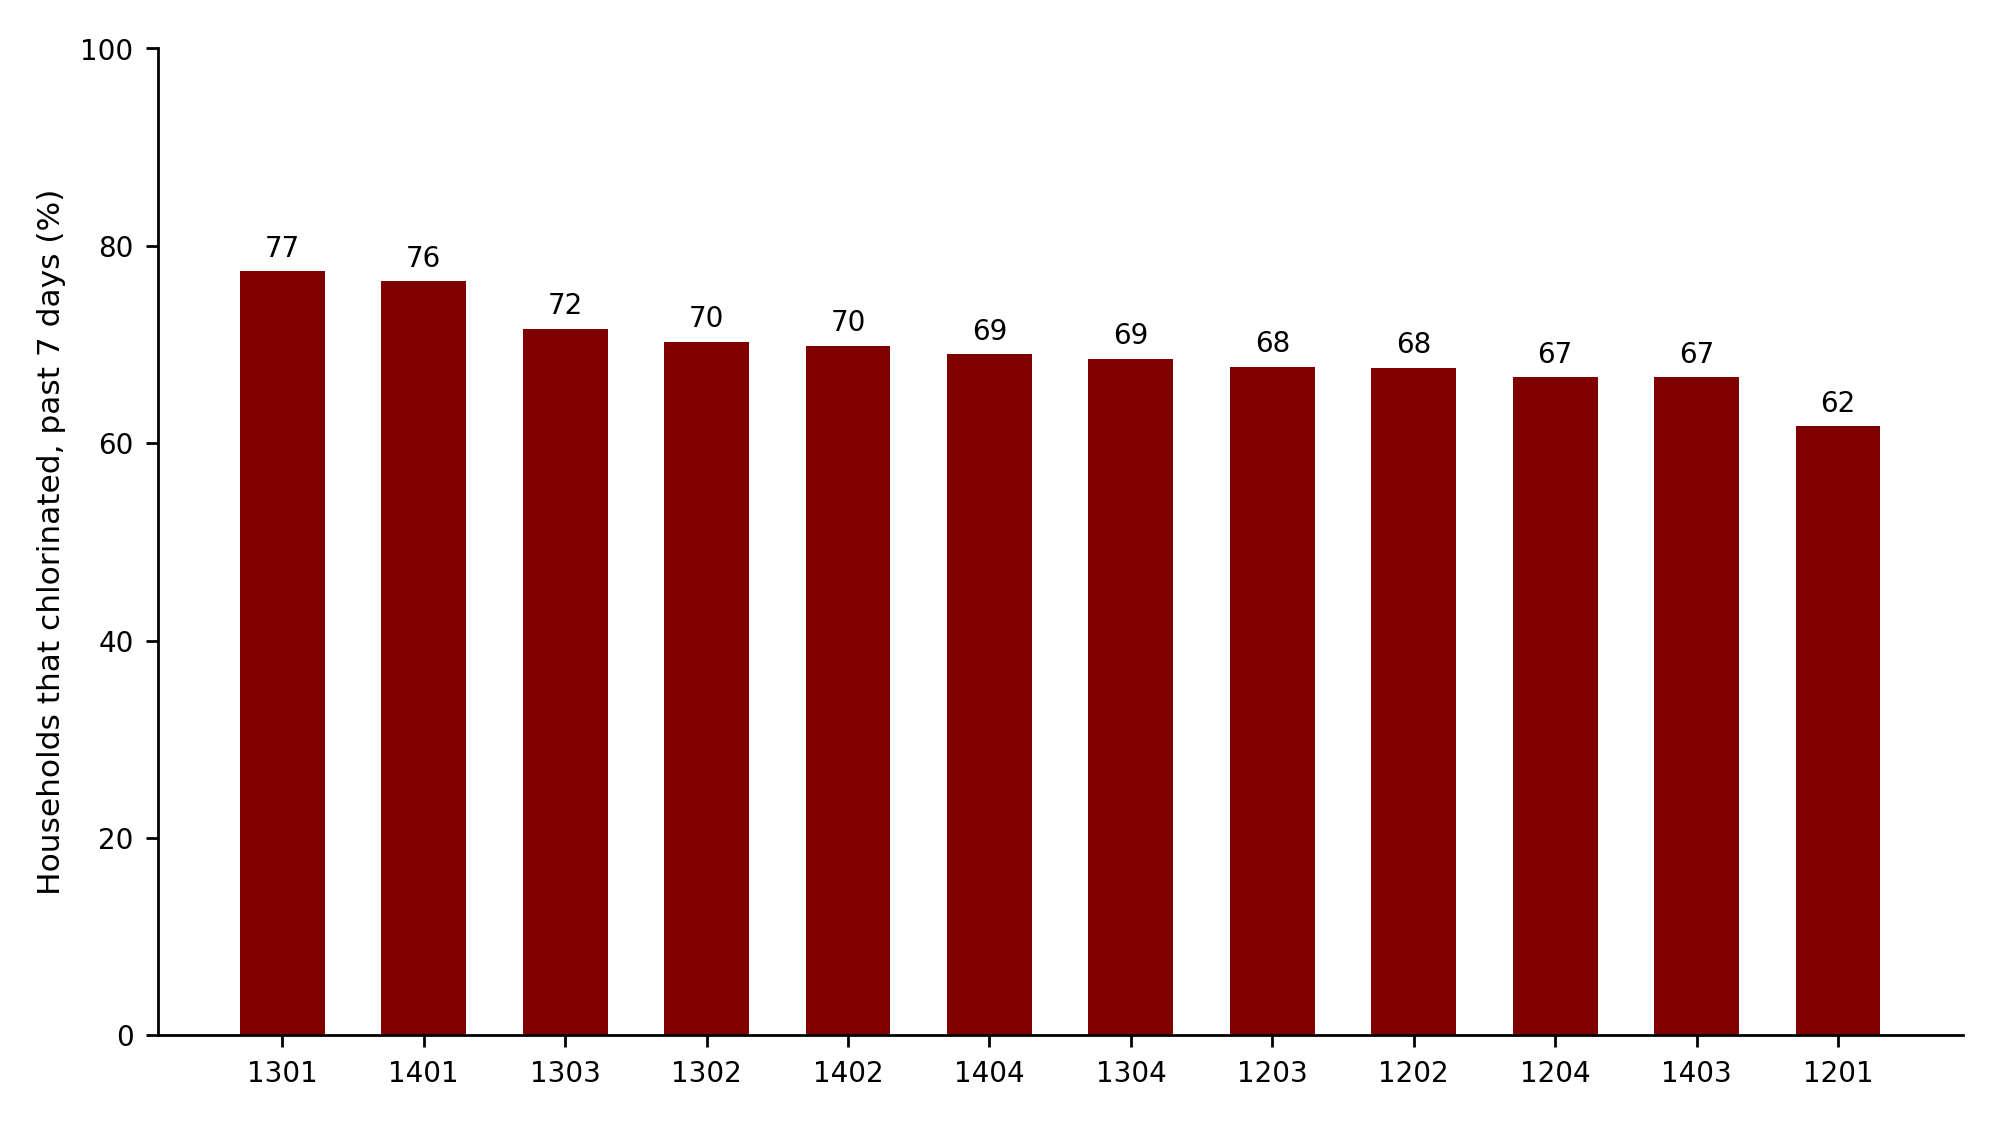
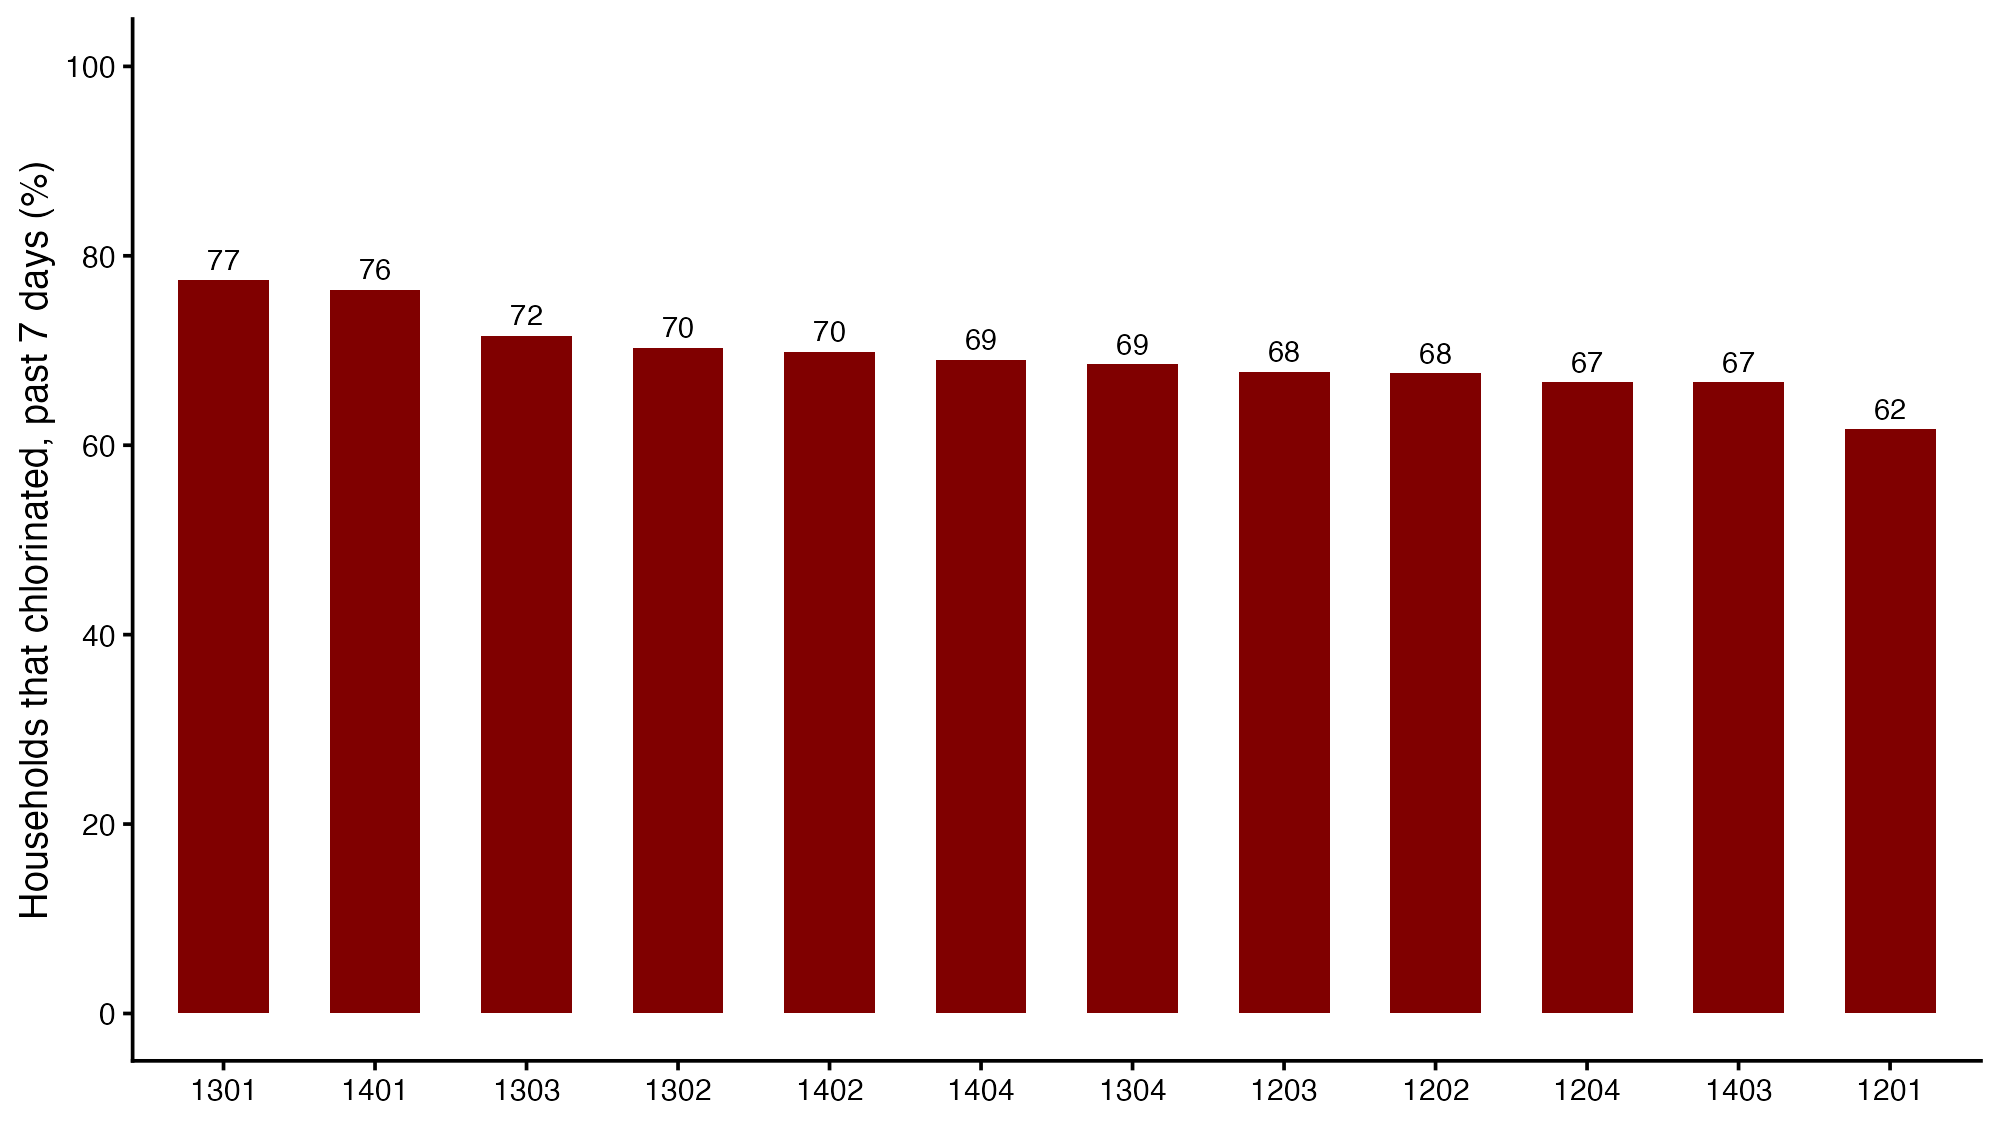
full data

Changed region(s): [[0.0, 0.0311, 0.992, 0.9956], [0.558, 0.28, 0.589, 0.3422], [0.403, 0.28, 0.434, 0.3111]]

diff --git a/tables/numbers.tex b/tables/numbers.tex
@@ -1,4 +1,4 @@
-% Written by code/2-export-outputs.do. Do not edit by hand: rerun the code.
+% Written by R/2-export-outputs.R. Do not edit by hand: rerun the code.
 \newcommand{\sampleNote}{all days of fieldwork}
 \newcommand{\fieldworkStart}{1 July 2026}
 \newcommand{\fieldworkEnd}{20 July 2026}

diff --git a/tables/tab1-water-practices.tex b/tables/tab1-water-practices.tex
@@ -1,4 +1,4 @@
-% Written by code/2-export-outputs.do. Do not edit by hand: rerun the code.
+% Written by R/2-export-outputs.R. Do not edit by hand: rerun the code.
 \begin{tabular}{lccc}
 \toprule
  & Piped & Other sources & All \\
